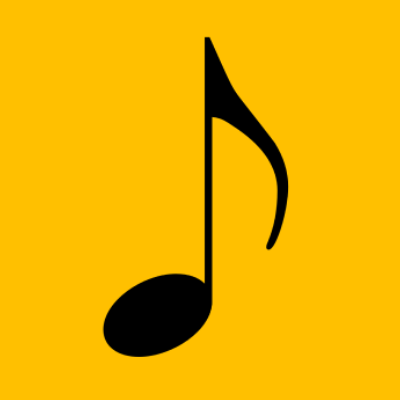
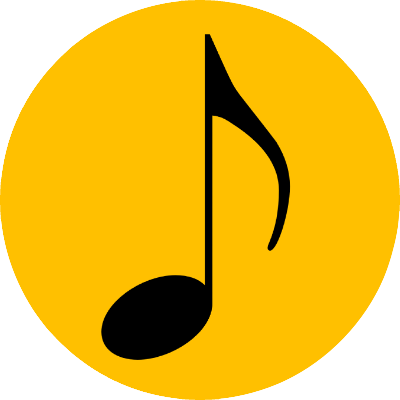
Fixing some image transparency issues

diff --git a/app.js b/app.js
@@ -1,7 +1,7 @@
 // Parameters for setting up the game.
 const nBoardRows = 3
 const nBoardCols = 12
-const nPieces  = 5
+const nPieces  = 3
 const baseSize = 25
 const slotSizePx = 3 * baseSize
 const playButtonSizePx = 3 * baseSize
@@ -23,6 +23,23 @@ boardDiv.style.width = boardWidth
 boardDiv.style.height = (slotSizePx * nBoardRows + 2) + 'px'
 for (let i = 0; i < nBoardSlots; i++) {
     boardDiv.appendChild(getBoardSlotDiv(i))
+}
+
+// Image for dragging operations.
+const dragImage = new Image();
+dragImage.src = 'images/piece_dragged.png';
+dragImage.style.width = slotSizePx + 'px'
+dragImage.style.height = slotSizePx + 'px'
+const dragDiv = document.createElement('div')
+dragDiv.appendChild(dragImage)
+// The dragging element has to be in the document body, but we don't want it to show permanently, so positioning it off the page.
+dragDiv.style.position = 'absolute'
+dragDiv.style.top = (-slotSizePx * 2) + 'px'
+dragDiv.style.left = (-slotSizePx * 2) + 'px'
+document.body.appendChild(dragDiv)
+
+function startGame() {
+    game.start('bart.wav')
 }
 
 // Generate a div element for board slots.
@@ -50,10 +67,11 @@ function getBoardSlotDiv(id) {
         event.dataTransfer.setDragImage(dragDiv, slotSizePx / 2, slotSizePx / 2)
         game.slotDrag(div)
     }
-    div.ondragend = () => {
+    div.ondragend = (event) => {
         if (debugMode) {
             console.log('Drag end: slot ' + div.id)
         }
+        event.preventDefault()
         game.slotDragEnd()
     }
     div.ondrop = () => {
@@ -69,23 +87,8 @@ function getBoardSlotDiv(id) {
 // Button to start the game.
 const startButton = document.querySelector('.start-button')
 startButton.style.marginTop = baseSize + 'px'
+startButton.style.width = (baseSize * 3) + 'px'
+startButton.style.height = (baseSize * 3) + 'px'
 startButton.onclick = () => {
     startGame()
-}
-
-// Image for dragging operations.
-const dragImage = new Image();
-dragImage.src = 'images/piece_dragging.png';
-dragImage.style.width = slotSizePx + 'px'
-dragImage.style.height = slotSizePx + 'px'
-const dragDiv = document.createElement('div')
-dragDiv.appendChild(dragImage)
-// The dragging element has to be in the document body, but we don't want it to show permanently, so positioning it off the page.
-dragDiv.style.position = 'absolute'
-dragDiv.style.top = (-slotSizePx * 2) + 'px'
-dragDiv.style.left = (-slotSizePx * 2) + 'px'
-document.body.appendChild(dragDiv)
-
-function startGame() {
-    game.start('bart.wav')
 }

diff --git a/src/game.js b/src/game.js
@@ -7,6 +7,7 @@ class Game {
         this.nPieces = nPieces
         this.testMode = testMode
         this.debugMode = debugMode
+        this.gameEnded = false
 
         // Segment object to be populated when loading an audio file.
         this.segment = null
@@ -27,10 +28,12 @@ class Game {
         this.board.reset()
         this.board.loadPieces(this.solution)
         this.board.startGUI()
+        this.gameEnded = false
     }
 
     end() {
         this.endGUI()
+        this.gameEnded = true
     }
 
     movePiece(originIndex, destIndex) {
@@ -83,26 +86,25 @@ class Game {
 
     slotDrag(slotElement) {
         // Callback function when a piece is getting dragged.
-        slotElement.classList.add('piece-dragged')
         this.slotBeingMovedElement = slotElement
     }
 
     slotDragEnd() {
          // Change the apperance of the dragged slot back to normal.
-         this.slotBeingMovedElement.classList.remove('piece-dragged')
    }
 
     slotDrop(slotElement) {
-        // Change the apperance of the dragged slot back to normal.
-        this.slotBeingMovedElement.classList.remove('piece-dragged')
         // Callback function when a piece is getting dropped.
-        this.movePiece(Number(this.slotBeingMovedElement.id), Number(slotElement.id))
 
-        // Check if puzzle is solved.
-        if (this.isSolved()) {
-            this.end()
-            const firstIndex = this.board.findPiece(this.solution[0])
-            this.board.playSequence(firstIndex)
+        if (!this.gameEnded) {
+            this.movePiece(Number(this.slotBeingMovedElement.id), Number(slotElement.id))
+
+            // Check if puzzle is solved.
+            if (this.isSolved()) {
+                const firstIndex = this.board.findPiece(this.solution[0])
+                this.board.playSequence(firstIndex)
+                this.end()
+            }
         }
     }
 

diff --git a/styles.css b/styles.css
@@ -13,28 +13,8 @@
     background-size: cover;
 }
 
-.audio-player {
-    display: flex;
-    flex-wrap: wrap;
-    background-color: blue;
-    background-image: url('../images/audio_player.png');
-    background-size: cover;
-}
-
-
-.audio-player-slot {
-    box-sizing: border-box;
-    background-image: url('../images/audio_player_slot.png');
-    background-size: cover;
-}
-
-.audio-player-play {
-    background-image: url('../images/audio_player_play.png');
-    background-size: cover;
-}
-
-.audio-player-play-active {
-    background-image: url('../images/audio_player_play_active.png');
+.start-button {
+    background-image: url('../images/start.png');
     background-size: cover;
 }
 
@@ -44,18 +24,12 @@
 }
 
 .piece {
-    border-radius: 50%;
     background-image: url('../images/piece.png');
     background-size: cover;
 }
 
 .piece-playing {
     background-image: url('../images/piece_playing.png');
-    background-size: cover;
-}
-
-.piece-playing-empty-slot {
-    background-image: url('../images/audio_player_slot_playing.png');
     background-size: cover;
 }
 

diff --git a/src/board.js b/src/board.js
@@ -201,9 +201,14 @@ class Board {
     }
 
     endGUI() {
-        this.slotsGUI.forEach (slotGUI => {
+        let slotGUI
+        for (let slotIndex = 0; slotIndex < this.nSlots; slotIndex++) {
+            slotGUI = this.slotsGUI[slotIndex]
+            if (this.debugMode) {
+                console.log('Ending GUI for slot ' + slotIndex)
+            }
             slotGUI.draggable = false
-        })
+        }
     }
 
     updateGUI() {

diff --git a/index.html b/index.html
@@ -10,7 +10,7 @@
         <div class="game" draggable="false">
             <div class="board" draggable="false"></div>
         </div>
-        <div class="start-button-div"><button class="start-button">Start</button></div>
+        <div class="start-button-div"><button class="start-button"></button></div>
 
         <script src="src/audio_data.js"></script>
         <script src="src/piece.js"></script>

diff --git a/src/piece.js b/src/piece.js
@@ -41,8 +41,6 @@ class Piece {
             // Connect the source to the context's destination.
             this.audioSource.connect(Piece.audioContext.destination)
             this.audioSource.start()
-
-            console.log(this.sound)
         }
         return this.sound   
     }
